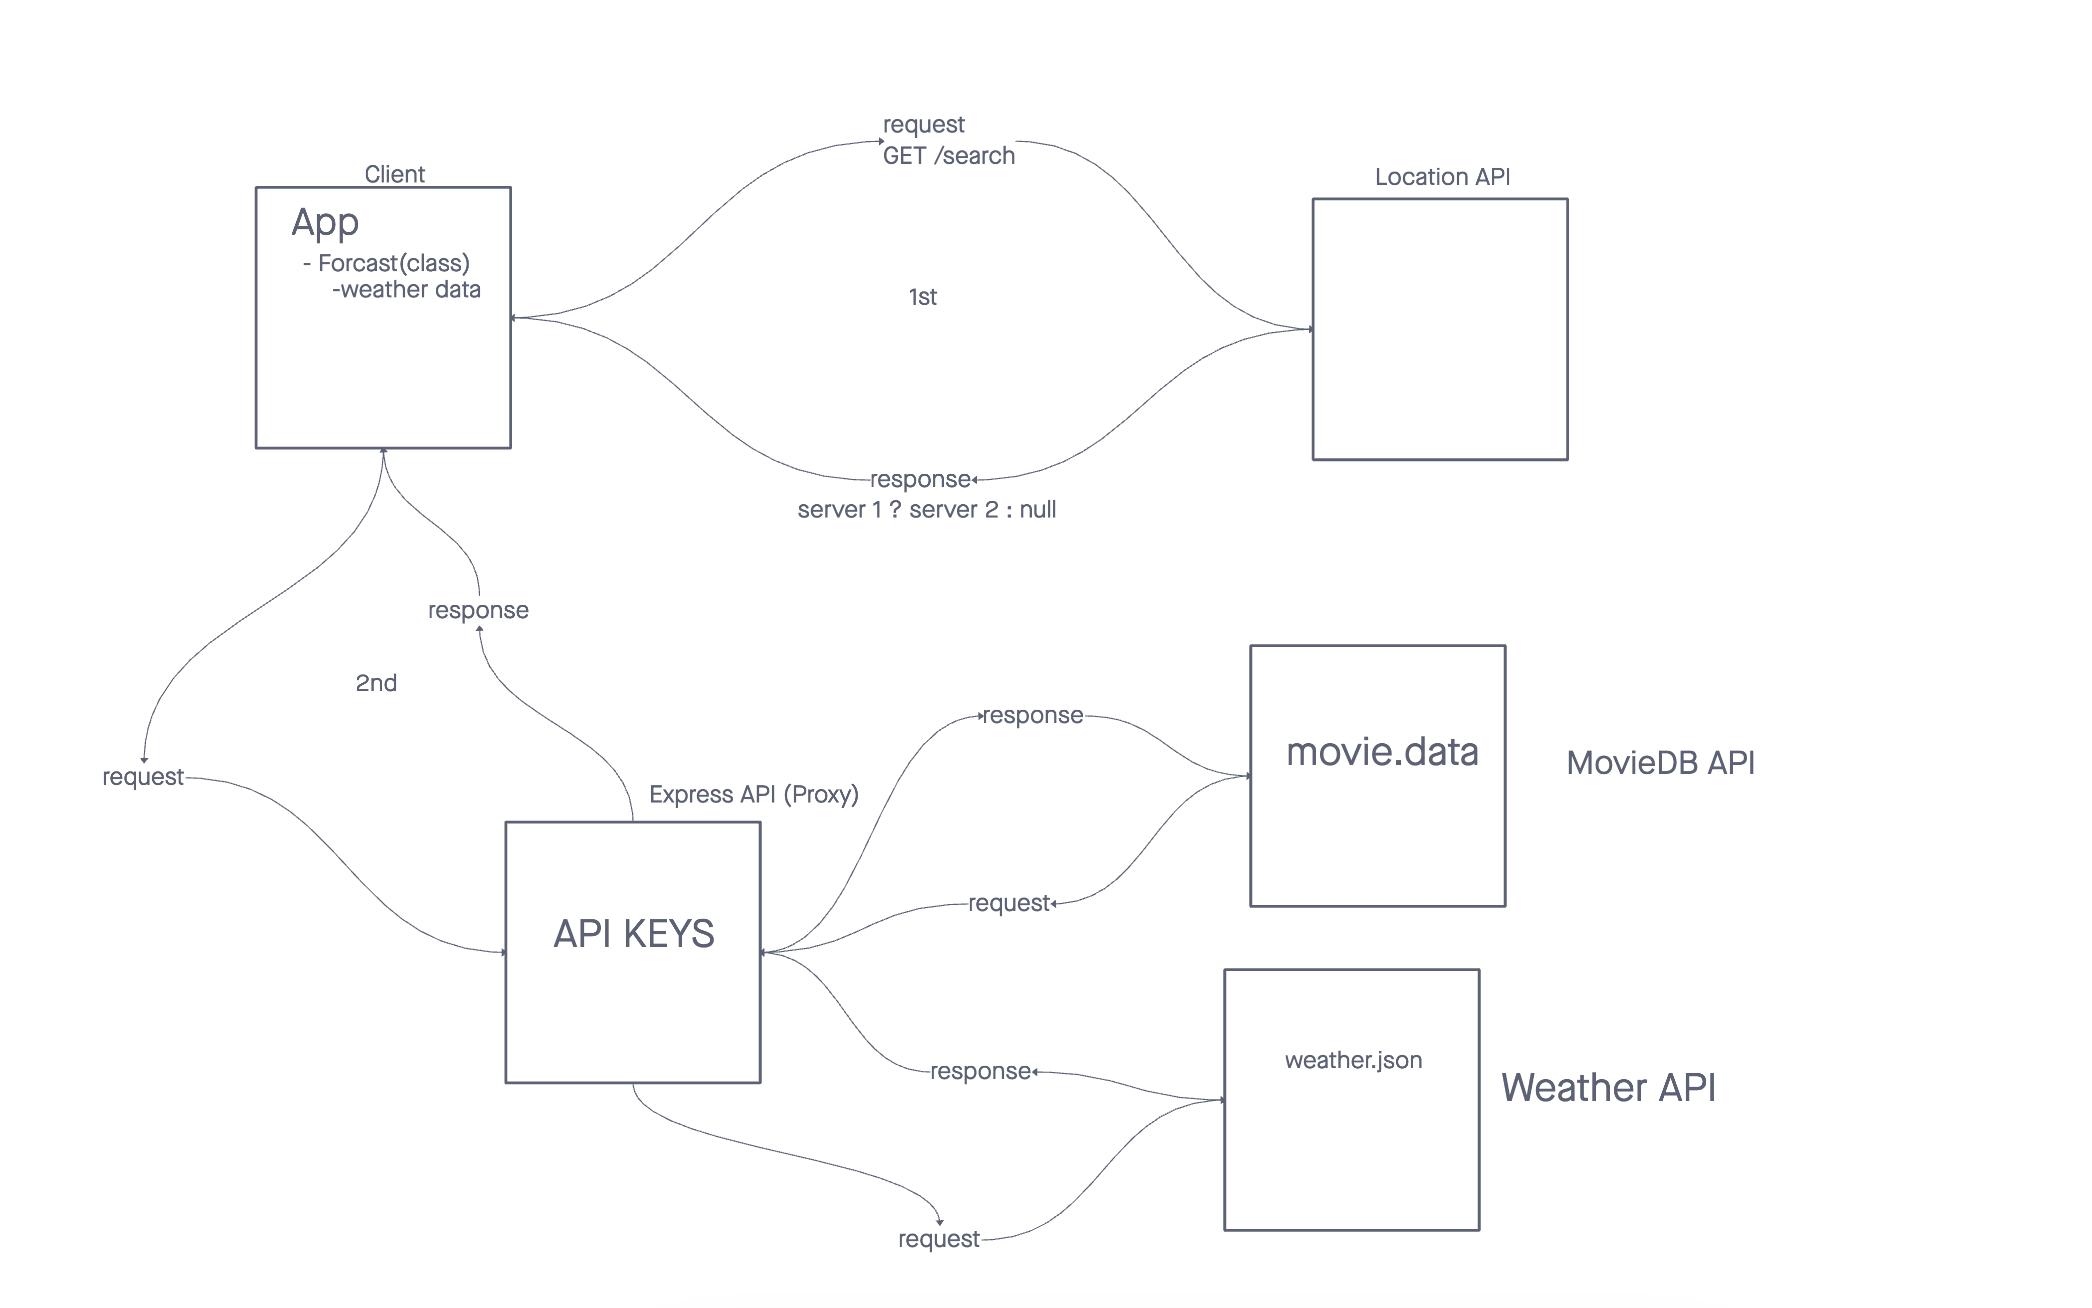
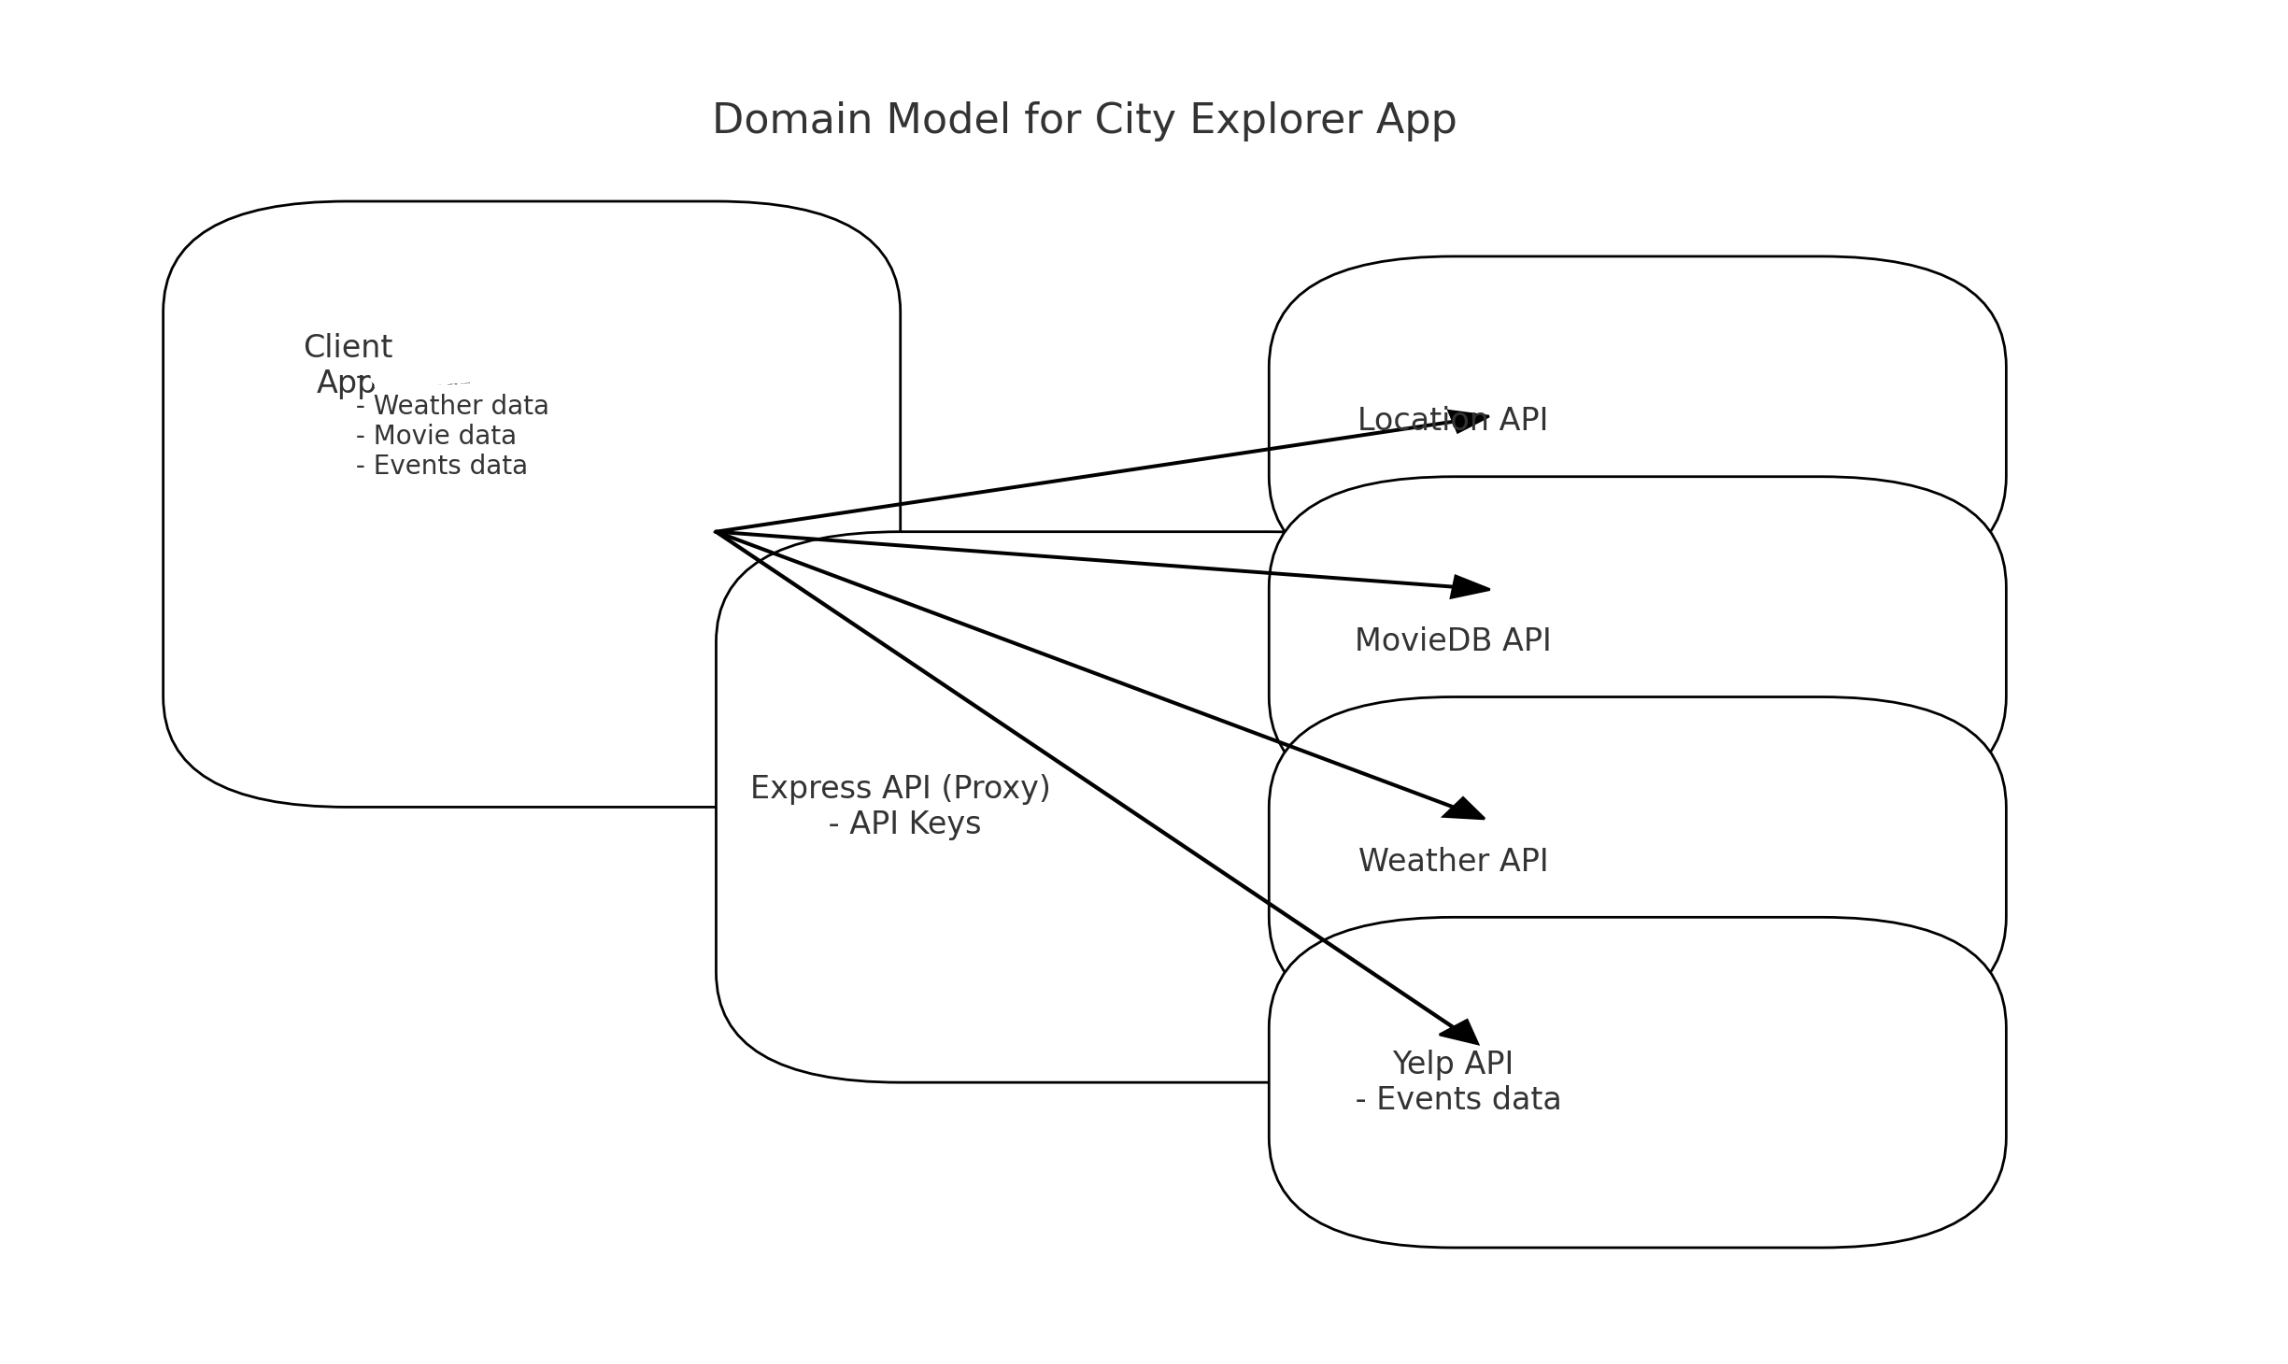
updated documentation

diff --git a/README.md b/README.md
@@ -1,11 +1,7 @@
 
 # City Explorer
 
-City Explorer is an engaging web application that enhances urban exploration with real-time information. It provides detailed maps, current weather forecasts, and showcases movies featuring selected cities. Built with React.js and Bootstrap, and supported by Express.js, City Explorer brings city exploration to life.
-
-## Upcoming Features
-
-Yelp API Integration: I plan on integrating the Yelp API into City Explorer. This new feature aims to enhance the user experience by providing rich information about local businesses, events, and activities in the cities they explore. With Yelp's extensive database, users will be able to discover and plan their city visits more effectively.
+City Explorer is an engaging web application that enhances urban exploration with real-time information. It provides detailed maps, current weather forecasts, a curated selection of movies, and popular events in the city. Built with React.js and Bootstrap, and supported by Express.js, City Explorer brings city exploration to life.
 
 ## Live Demo
 
@@ -13,18 +9,19 @@ Experience City Explorer in action: [Live Demo on Netlify](https://city-explorer
 
 ## Version
 
-Current version: v1.0
+The application is currently at version 1.1, featuring Yelp API integration for events.
 
 ## Features
 
-- **Dynamic City Mapping**: Interactive maps providing detailed layouts of cities.
-- **Real-Time Weather Forecasts**: Up-to-date weather information for your selected city.
-- **Movie Carousel**: A unique carousel showcasing movies related to the city.
-- **Intuitive User Interface**: A user-friendly interface designed for ease of use and engagement.
+- **Interactive City Maps**: Navigate through detailed maps for insights into city layouts.
+- **Live Weather Updates**: Get up-to-date weather forecasts for your city of interest.
+- **City-Inspired Movie Carousel**: Discover films related to the city you're exploring.
+- **Popular Local Events**: Find out about the most popular events happening in the city, powered by the Yelp API.
+- **User-Friendly Design**: Engage with an intuitive interface designed for ease of navigation and interaction.
 
 ## Usage Limitations
 
-Please note that City Explorer has a limitation of 50 weather and movie API requests per 24 hours. If you encounter issues with the application not working as expected, it may be due to reaching this limit. I recommend waiting until the 24-hour period has passed or consider upgrading your API plan if you require more frequent access to weather and movie data.
+Please note that City Explorer has a limitation of 50 weather API requests per 24 hours. If you encounter issues with the application not working as expected, it may be due to reaching this limit. I recommend waiting until the 24-hour period has passed or consider upgrading your API plan if you require more frequent access to weather and movie data.
 
 ## Installation
 
@@ -75,8 +72,7 @@ Here's a quick overview of the main components:
 - **Maps**: Displays detailed maps of cities.
 - **Weather**: Shows current weather information.
 - **Movies**: Carousel of movies related to the city.
-- **Styles**: Contains all styling files for the application.
-- **API**: Handles all external API requests and interactions.
+- **Events**: Information on popular local events sourced from Yelp.
 
 ## Contact
 
